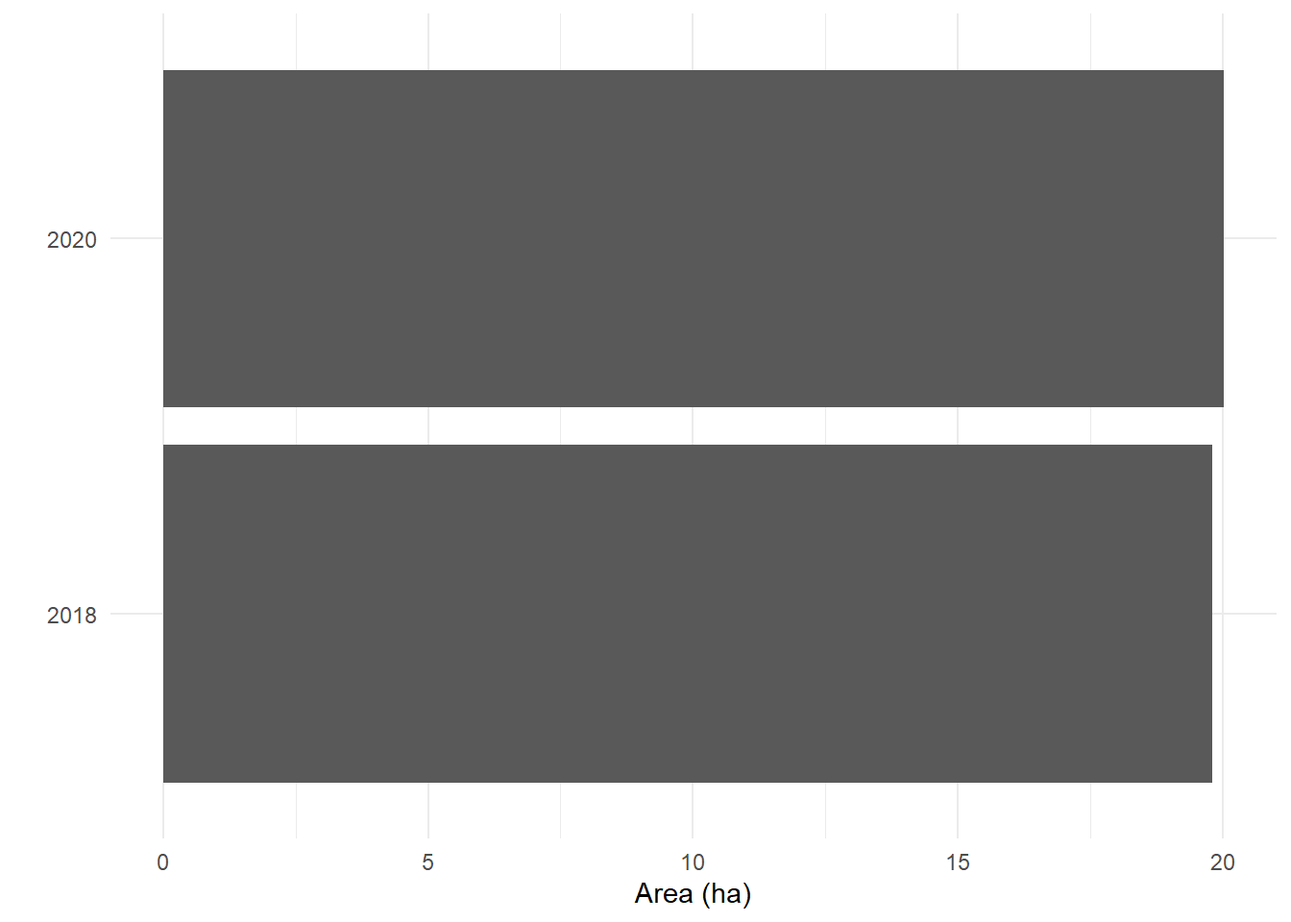
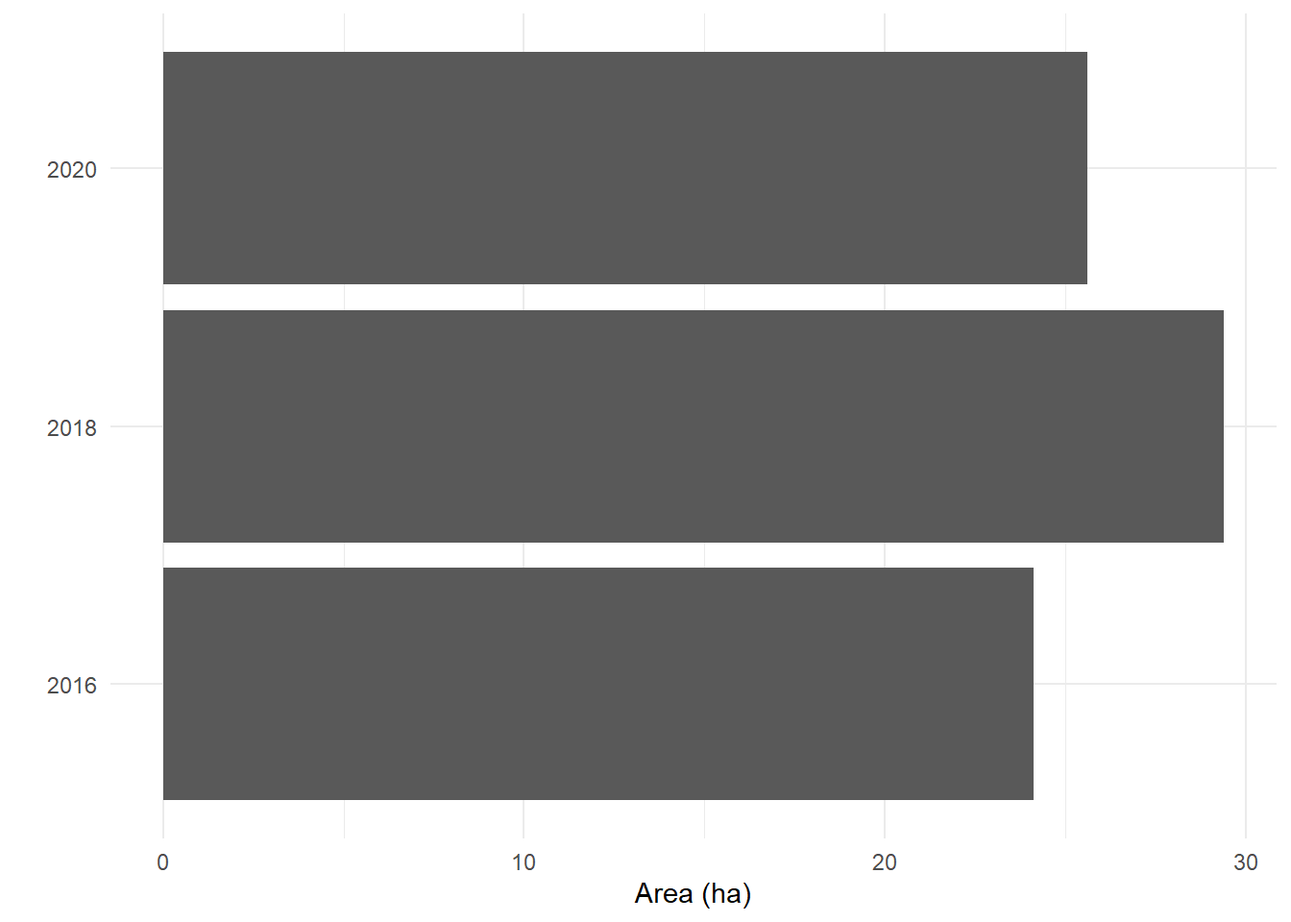
Built site for gh-pages

diff --git a/blog/posts/opening-kmz-files/index.html b/blog/posts/opening-kmz-files/index.html
@@ -7,7 +7,7 @@
 <meta name="viewport" content="width=device-width, initial-scale=1.0, user-scalable=yes">
 
 <meta name="author" content="Sarah Zeller">
-<meta name="dcterms.date" content="2024-04-19">
+<meta name="dcterms.date" content="2024-05-27">
 
 <title>Sarah Zeller - Opening .kmz files</title>
 <style>
@@ -172,7 +172,7 @@ pre > code.sourceCode > span > a:first-child::before { text-decoration: underlin
       <div>
       <div class="quarto-title-meta-heading">Published</div>
       <div class="quarto-title-meta-contents">
-        <p class="date">April 19, 2024</p>
+        <p class="date">May 27, 2024</p>
       </div>
     </div>
     
@@ -196,6 +196,7 @@ pre > code.sourceCode > span > a:first-child::before { text-decoration: underlin
   <li><a href="#manipulating-the-data" id="toc-manipulating-the-data" class="nav-link" data-scroll-target="#manipulating-the-data">Manipulating the data</a>
   <ul class="collapse">
   <li><a href="#extracting-information-from-the-name" id="toc-extracting-information-from-the-name" class="nav-link" data-scroll-target="#extracting-information-from-the-name">Extracting information from the <code>Name</code></a></li>
+  <li><a href="#summarizing-into-one-polygon" id="toc-summarizing-into-one-polygon" class="nav-link" data-scroll-target="#summarizing-into-one-polygon">Summarizing into one polygon</a></li>
   <li><a href="#calculating-area" id="toc-calculating-area" class="nav-link" data-scroll-target="#calculating-area">Calculating area</a></li>
   </ul></li>
   <li><a href="#alternative-using-terra" id="toc-alternative-using-terra" class="nav-link" data-scroll-target="#alternative-using-terra">Alternative using <code>terra</code></a></li>
@@ -222,17 +223,18 @@ pre > code.sourceCode > span > a:first-child::before { text-decoration: underlin
 </section>
 <section id="setup" class="level1">
 <h1>Setup</h1>
-<p>Let’s start by loading the necessary libraries. We’ll need <code>archive</code> to unpack our <code>.kmz</code> file. With <code>sf</code>, we can then read the corresponding file in. <code>dplyr</code> will help us wrangle the data once they’re read in. With <code>ggplot2</code>, we can visualize our data. <code>units</code> helps wrangling with different area units.</p>
+<p>Let’s start by loading the necessary libraries. We’ll need <code>archive</code> to unpack our <code>.kmz</code> file. With <code>sf</code>, we can then read the corresponding file in. <code>dplyr</code> will help us wrangle the data once they’re read in. With <code>ggplot2</code>, we can visualize our data. <code>units</code> helps wrangling with different area units. <code>unglue</code> is a package that helps us extract information from strings.</p>
 <div class="cell">
 <div class="sourceCode cell-code" id="cb1"><pre class="sourceCode r code-with-copy"><code class="sourceCode r"><span id="cb1-1"><a href="#cb1-1" aria-hidden="true" tabindex="-1"></a><span class="fu">library</span>(archive)</span>
 <span id="cb1-2"><a href="#cb1-2" aria-hidden="true" tabindex="-1"></a><span class="fu">library</span>(sf)</span>
 <span id="cb1-3"><a href="#cb1-3" aria-hidden="true" tabindex="-1"></a><span class="fu">library</span>(dplyr)</span>
 <span id="cb1-4"><a href="#cb1-4" aria-hidden="true" tabindex="-1"></a><span class="fu">library</span>(ggplot2)</span>
-<span id="cb1-5"><a href="#cb1-5" aria-hidden="true" tabindex="-1"></a><span class="fu">library</span>(units)</span></code><button title="Copy to Clipboard" class="code-copy-button"><i class="bi"></i></button></pre></div>
+<span id="cb1-5"><a href="#cb1-5" aria-hidden="true" tabindex="-1"></a><span class="fu">library</span>(units)</span>
+<span id="cb1-6"><a href="#cb1-6" aria-hidden="true" tabindex="-1"></a><span class="fu">library</span>(unglue)</span></code><button title="Copy to Clipboard" class="code-copy-button"><i class="bi"></i></button></pre></div>
 </div>
 <p>Now, let’s download our file. For this, we use the URL I’ve mentioned before. Also, we’re creating a temporary file into which we load this file – <code>kmz_path</code>. Watch out, though: it’s a binary file, so we need to add the corresponding argument to the function <code>download.file</code>.</p>
 <div class="cell">
-<div class="sourceCode cell-code" id="cb2"><pre class="sourceCode r code-with-copy"><code class="sourceCode r"><span id="cb2-1"><a href="#cb2-1" aria-hidden="true" tabindex="-1"></a>kmz_url <span class="ot">&lt;-</span> <span class="st">"https://sarahzeller.github.io/assets/Agbogbloshie.kmz"</span></span>
+<div class="sourceCode cell-code" id="cb2"><pre class="sourceCode r code-with-copy"><code class="sourceCode r"><span id="cb2-1"><a href="#cb2-1" aria-hidden="true" tabindex="-1"></a>kmz_url <span class="ot">&lt;-</span> <span class="st">"https://github.com/sarahzeller/sarahzeller.github.io/blob/main/assets/Agbogbloshie.kmz"</span></span>
 <span id="cb2-2"><a href="#cb2-2" aria-hidden="true" tabindex="-1"></a></span>
 <span id="cb2-3"><a href="#cb2-3" aria-hidden="true" tabindex="-1"></a>kmz_path <span class="ot">&lt;-</span> <span class="fu">tempfile</span>(<span class="at">fileext =</span> <span class="st">".kmz"</span>)</span>
 <span id="cb2-4"><a href="#cb2-4" aria-hidden="true" tabindex="-1"></a><span class="fu">download.file</span>(</span>
@@ -273,18 +275,21 @@ pre > code.sourceCode > span > a:first-child::before { text-decoration: underlin
 <span id="cb5-4"><a href="#cb5-4" aria-hidden="true" tabindex="-1"></a></span>
 <span id="cb5-5"><a href="#cb5-5" aria-hidden="true" tabindex="-1"></a>agbogbloshie <span class="sc">|&gt;</span> <span class="fu">head</span>()</span></code><button title="Copy to Clipboard" class="code-copy-button"><i class="bi"></i></button></pre></div>
 <div class="cell-output cell-output-stdout">
-<pre><code>Simple feature collection with 3 features and 2 fields
+<pre><code>Simple feature collection with 6 features and 2 fields
 Geometry type: GEOMETRY
 Dimension:     XYZ
-Bounding box:  xmin: -0.2311228 ymin: 5.54208 xmax: -0.2246721 ymax: 5.554326
+Bounding box:  xmin: -0.2311228 ymin: 5.54208 xmax: -0.2246721 ymax: 5.556922
 z_range:       zmin: 0 zmax: 0
 Geodetic CRS:  WGS 84
-# A tibble: 3 × 3
-  Name         Description                                              geometry
-  &lt;chr&gt;        &lt;chr&gt;                                              &lt;GEOMETRY [°]&gt;
-1 Agbogbloshie ""                                POINT Z (-0.2264589 5.548876 0)
-2 stand_2020   ""          MULTIPOLYGON Z (((-0.2311228 5.554326 0, -0.2291702 …
-3 stand_2018   ""          MULTIPOLYGON Z (((-0.2304394 5.552348 0, -0.2304295 …</code></pre>
+# A tibble: 6 × 3
+  Name                    Description                                   geometry
+  &lt;chr&gt;                   &lt;chr&gt;                                   &lt;GEOMETRY [°]&gt;
+1 Agbogbloshie            ""                     POINT Z (-0.2264589 5.548876 0)
+2 Agbogbloshie_02_2020    ""          MULTIPOLYGON Z (((-0.2311228 5.554326 0, …
+3 Agbogbloshie_10_2018    ""          MULTIPOLYGON Z (((-0.2304394 5.552348 0, …
+4 Agblogbloshie 10_2016   ""          MULTIPOLYGON Z (((-0.2292498 5.550126 0, …
+5 Agbogbloshie_10_2018_02 ""          MULTIPOLYGON Z (((-0.229426 5.553367 0, -…
+6 Agbogbloshie_10_2018_03 ""          MULTIPOLYGON Z (((-0.2264083 5.550984 0, …</code></pre>
 </div>
 </div>
 </section>
@@ -304,24 +309,39 @@ Geodetic CRS:  WGS 84
 <p>Now that we’ve gotten the data into a format we can work with, let’s add some information. The first thing is to put the information contained in the <code>Name</code> column into a readable format. Next thing, we want to compute the area of our polygons.</p>
 <section id="extracting-information-from-the-name" class="level2">
 <h2 class="anchored" data-anchor-id="extracting-information-from-the-name">Extracting information from the <code>Name</code></h2>
-<p>When we check out our <code>agbogbloshie_polygon</code> data frame, we can see that there’s information contained in the <code>Name</code> column, specifically: the year for which the polygon shape is valid. So let’s extract that <code>numeric</code> information from the <code>character</code> column! We can do that using the <code>parse_number</code> function from the <code>readr</code> package.</p>
+<p>When we check out our <code>agbogbloshie_polygon</code> data frame, we can see that there’s information contained in the <code>Name</code> column, specifically: the year for which the polygon shape is valid. So let’s extract that <code>numeric</code> information from the <code>character</code> column! Because the description is quite long and has much information included – and it’s always formatted the same way –, we’ll use the <code>unglue</code> package to extract the information. Also, the landfill is misspelt in some cases, so we need to account for that.</p>
 <div class="cell">
 <div class="sourceCode cell-code" id="cb8"><pre class="sourceCode r code-with-copy"><code class="sourceCode r"><span id="cb8-1"><a href="#cb8-1" aria-hidden="true" tabindex="-1"></a>agbogbloshie_polygon <span class="ot">&lt;-</span> agbogbloshie_polygon <span class="sc">|&gt;</span> </span>
-<span id="cb8-2"><a href="#cb8-2" aria-hidden="true" tabindex="-1"></a>  <span class="fu">mutate</span>(<span class="at">year =</span> readr<span class="sc">::</span><span class="fu">parse_number</span>(Name))</span>
-<span id="cb8-3"><a href="#cb8-3" aria-hidden="true" tabindex="-1"></a></span>
-<span id="cb8-4"><a href="#cb8-4" aria-hidden="true" tabindex="-1"></a>agbogbloshie_polygon</span></code><button title="Copy to Clipboard" class="code-copy-button"><i class="bi"></i></button></pre></div>
+<span id="cb8-2"><a href="#cb8-2" aria-hidden="true" tabindex="-1"></a>  <span class="fu">unglue_unnest</span>(Name, </span>
+<span id="cb8-3"><a href="#cb8-3" aria-hidden="true" tabindex="-1"></a>                <span class="at">patterns =</span> <span class="fu">c</span>(<span class="st">"{landfill_name}_{month}_{year}_{polygon_no}"</span>,</span>
+<span id="cb8-4"><a href="#cb8-4" aria-hidden="true" tabindex="-1"></a>                             <span class="st">"{landfill_name}_{month}_{year}"</span>,</span>
+<span id="cb8-5"><a href="#cb8-5" aria-hidden="true" tabindex="-1"></a>                             <span class="st">"{landfill_name} {month}_{year}"</span>),</span>
+<span id="cb8-6"><a href="#cb8-6" aria-hidden="true" tabindex="-1"></a>                <span class="at">remove =</span> <span class="cn">FALSE</span>) <span class="sc">|&gt;</span> </span>
+<span id="cb8-7"><a href="#cb8-7" aria-hidden="true" tabindex="-1"></a>  <span class="fu">mutate</span>(<span class="at">landfill_name =</span> <span class="fu">case_match</span>(landfill_name,</span>
+<span id="cb8-8"><a href="#cb8-8" aria-hidden="true" tabindex="-1"></a>                                    <span class="st">"Agblogbloshie"</span> <span class="sc">~</span> <span class="st">"Agbogbloshie"</span>,</span>
+<span id="cb8-9"><a href="#cb8-9" aria-hidden="true" tabindex="-1"></a>                                    <span class="st">"Agbogbgloshie"</span> <span class="sc">~</span> <span class="st">"Agbogbloshie"</span>,</span>
+<span id="cb8-10"><a href="#cb8-10" aria-hidden="true" tabindex="-1"></a>                                    <span class="at">.default =</span> <span class="st">"Agbogbloshie"</span>))</span>
+<span id="cb8-11"><a href="#cb8-11" aria-hidden="true" tabindex="-1"></a></span>
+<span id="cb8-12"><a href="#cb8-12" aria-hidden="true" tabindex="-1"></a>agbogbloshie_polygon</span></code><button title="Copy to Clipboard" class="code-copy-button"><i class="bi"></i></button></pre></div>
 <div class="cell-output cell-output-stdout">
-<pre><code>Simple feature collection with 2 features and 3 fields
+<pre><code>Simple feature collection with 8 features and 6 fields
 Geometry type: MULTIPOLYGON
 Dimension:     XYZ
-Bounding box:  xmin: -0.2311228 ymin: 5.54208 xmax: -0.2246721 ymax: 5.554326
+Bounding box:  xmin: -0.2311228 ymin: 5.54208 xmax: -0.2246721 ymax: 5.556922
 z_range:       zmin: 0 zmax: 0
 Geodetic CRS:  WGS 84
-# A tibble: 2 × 4
-  Name       Description                                          geometry  year
-* &lt;chr&gt;      &lt;chr&gt;                                      &lt;MULTIPOLYGON [°]&gt; &lt;dbl&gt;
-1 stand_2020 ""          Z (((-0.2311228 5.554326 0, -0.2291702 5.549969 …  2020
-2 stand_2018 ""          Z (((-0.2304394 5.552348 0, -0.2304295 5.552299 …  2018</code></pre>
+# A tibble: 8 × 7
+  Name                     Description landfill_name month year  polygon_no
+* &lt;chr&gt;                    &lt;chr&gt;       &lt;chr&gt;         &lt;chr&gt; &lt;chr&gt; &lt;chr&gt;     
+1 Agbogbloshie_02_2020     ""          Agbogbloshie  02    2020  &lt;NA&gt;      
+2 Agbogbloshie_10_2018     ""          Agbogbloshie  10    2018  &lt;NA&gt;      
+3 Agblogbloshie 10_2016    ""          Agbogbloshie  10    2016  &lt;NA&gt;      
+4 Agbogbloshie_10_2018_02  ""          Agbogbloshie  10    2018  02        
+5 Agbogbloshie_10_2018_03  ""          Agbogbloshie  10    2018  03        
+6 Agbogbgloshie_02_2020_02 ""          Agbogbloshie  02    2020  02        
+7 Agbogbloshie_02_2020_03  ""          Agbogbloshie  02    2020  03        
+8 Agbogbloshie_10_2016_02  ""          Agbogbloshie  10    2016  02        
+# ℹ 1 more variable: geometry &lt;MULTIPOLYGON [°]&gt;</code></pre>
 </div>
 </div>
 <p>Let’s use this information to plot the landfill in the two different years! Seems like the landfill grew quite a bit in between.</p>
@@ -345,13 +365,28 @@ Figure&nbsp;1: Agbogbloshie landfill over time
 </div>
 </div>
 </div>
+<p>This looks good! However, we can see that the landfills consist of multiple polygons. Let’s get them together.</p>
+</section>
+<section id="summarizing-into-one-polygon" class="level2">
+<h2 class="anchored" data-anchor-id="summarizing-into-one-polygon">Summarizing into one polygon</h2>
+<p>In every year, we have more than one polygon. We want to collapse these into a single multipolygon. For that, we need to summarize them by <code>year</code> and <code>landfill</code>.</p>
+<div class="cell">
+<div class="sourceCode cell-code" id="cb11"><pre class="sourceCode r code-with-copy"><code class="sourceCode r"><span id="cb11-1"><a href="#cb11-1" aria-hidden="true" tabindex="-1"></a>agbogbloshie_polygon <span class="ot">&lt;-</span> agbogbloshie_polygon <span class="sc">|&gt;</span> </span>
+<span id="cb11-2"><a href="#cb11-2" aria-hidden="true" tabindex="-1"></a>  <span class="fu">st_zm</span>() <span class="sc">|&gt;</span> </span>
+<span id="cb11-3"><a href="#cb11-3" aria-hidden="true" tabindex="-1"></a>  <span class="fu">st_transform</span>(<span class="at">crs =</span> <span class="st">"ESRI:54009"</span>) <span class="sc">|&gt;</span> </span>
+<span id="cb11-4"><a href="#cb11-4" aria-hidden="true" tabindex="-1"></a>  <span class="fu">st_make_valid</span>() <span class="sc">|&gt;</span> </span>
+<span id="cb11-5"><a href="#cb11-5" aria-hidden="true" tabindex="-1"></a>  <span class="co"># summarize geometry into multipolygons</span></span>
+<span id="cb11-6"><a href="#cb11-6" aria-hidden="true" tabindex="-1"></a>  <span class="fu">group_by</span>(landfill_name, year, month) <span class="sc">|&gt;</span> </span>
+<span id="cb11-7"><a href="#cb11-7" aria-hidden="true" tabindex="-1"></a>  <span class="fu">summarize</span>() <span class="sc">|&gt;</span> </span>
+<span id="cb11-8"><a href="#cb11-8" aria-hidden="true" tabindex="-1"></a>  <span class="fu">ungroup</span>()</span></code><button title="Copy to Clipboard" class="code-copy-button"><i class="bi"></i></button></pre></div>
+</div>
 </section>
 <section id="calculating-area" class="level2">
 <h2 class="anchored" data-anchor-id="calculating-area">Calculating area</h2>
 <p>As a next step, let’s calculate the area of these polygons. After all, it’s interesting to see if this landfill shrinks or grows!</p>
 <p>For now, our data are <em>unprojected</em>, though. We can check this by getting the coordinate reference system (CRS) of our data. The output is very long and includes a lot of information, but we only need to focus on the first line, the <em>User input</em>. The next lines show the corresponding <em>well-known text (wkt)</em>, which details exactly how the CRS works. We can see here that the CRS is still <em>WGS 84</em>, which means – unprojected.</p>
 <div class="cell">
-<div class="sourceCode cell-code" id="cb11"><pre class="sourceCode r code-with-copy"><code class="sourceCode r"><span id="cb11-1"><a href="#cb11-1" aria-hidden="true" tabindex="-1"></a><span class="fu">st_crs</span>(agbogbloshie)</span></code><button title="Copy to Clipboard" class="code-copy-button"><i class="bi"></i></button></pre></div>
+<div class="sourceCode cell-code" id="cb12"><pre class="sourceCode r code-with-copy"><code class="sourceCode r"><span id="cb12-1"><a href="#cb12-1" aria-hidden="true" tabindex="-1"></a><span class="fu">st_crs</span>(agbogbloshie)</span></code><button title="Copy to Clipboard" class="code-copy-button"><i class="bi"></i></button></pre></div>
 <div class="cell-output cell-output-stdout">
 <pre><code>Coordinate Reference System:
   User input: WGS 84 
@@ -374,38 +409,38 @@ GEOGCRS["WGS 84",
 </div>
 <p>However, we know that the world is shaped like a potato, and that these unprojected data are biased. To correct for this, we first need to project the data into a CRS that’s accurate for that world region when it comes to area – we also call this area-preserving projection. The official CRS for Ghana, where this landfill is located, has the EPSG code <code>2136</code>. Once we’ve projected the polygons, we can easily calculate the area with the <code>sf</code> package.</p>
 <div class="cell">
-<div class="sourceCode cell-code" id="cb13"><pre class="sourceCode r code-with-copy"><code class="sourceCode r"><span id="cb13-1"><a href="#cb13-1" aria-hidden="true" tabindex="-1"></a>agbogbloshie_polygon <span class="ot">&lt;-</span> agbogbloshie_polygon <span class="sc">|&gt;</span> </span>
-<span id="cb13-2"><a href="#cb13-2" aria-hidden="true" tabindex="-1"></a>  <span class="fu">st_transform</span>(<span class="at">crs =</span> <span class="st">"epsg:2136"</span>) <span class="sc">|&gt;</span> </span>
-<span id="cb13-3"><a href="#cb13-3" aria-hidden="true" tabindex="-1"></a>  <span class="fu">mutate</span>(<span class="at">area =</span> <span class="fu">st_area</span>(geometry)) </span>
-<span id="cb13-4"><a href="#cb13-4" aria-hidden="true" tabindex="-1"></a></span>
-<span id="cb13-5"><a href="#cb13-5" aria-hidden="true" tabindex="-1"></a>agbogbloshie_polygon</span></code><button title="Copy to Clipboard" class="code-copy-button"><i class="bi"></i></button></pre></div>
+<div class="sourceCode cell-code" id="cb14"><pre class="sourceCode r code-with-copy"><code class="sourceCode r"><span id="cb14-1"><a href="#cb14-1" aria-hidden="true" tabindex="-1"></a>agbogbloshie_polygon <span class="ot">&lt;-</span> agbogbloshie_polygon <span class="sc">|&gt;</span> </span>
+<span id="cb14-2"><a href="#cb14-2" aria-hidden="true" tabindex="-1"></a>  <span class="fu">st_transform</span>(<span class="at">crs =</span> <span class="st">"epsg:2136"</span>) <span class="sc">|&gt;</span> </span>
+<span id="cb14-3"><a href="#cb14-3" aria-hidden="true" tabindex="-1"></a>  <span class="fu">mutate</span>(<span class="at">area =</span> <span class="fu">st_area</span>(geometry)) </span>
+<span id="cb14-4"><a href="#cb14-4" aria-hidden="true" tabindex="-1"></a></span>
+<span id="cb14-5"><a href="#cb14-5" aria-hidden="true" tabindex="-1"></a>agbogbloshie_polygon</span></code><button title="Copy to Clipboard" class="code-copy-button"><i class="bi"></i></button></pre></div>
 <div class="cell-output cell-output-stdout">
-<pre><code>Simple feature collection with 2 features and 4 fields
+<pre><code>Simple feature collection with 3 features and 4 fields
 Geometry type: MULTIPOLYGON
-Dimension:     XYZ
-Bounding box:  xmin: 1179342 ymin: 316685.8 xmax: 1181692 ymax: 321125.3
-z_range:       zmin: 0 zmax: 0
+Dimension:     XY
+Bounding box:  xmin: 1179342 ymin: 316685.8 xmax: 1181692 ymax: 322068
 Projected CRS: Accra / Ghana National Grid
-# A tibble: 2 × 5
-  Name       Description                                   geometry  year   area
-* &lt;chr&gt;      &lt;chr&gt;                                   &lt;MULTIPOLYGON&gt; &lt;dbl&gt;  [m^2]
-1 stand_2020 ""          Z (((1179342 321125.3 0, 1180054 319545.7…  2020 2.00e5
-2 stand_2018 ""          Z (((1179591 320408.3 0, 1179595 320390.5…  2018 1.98e5</code></pre>
+# A tibble: 3 × 5
+  landfill_name year  month                                      geometry   area
+* &lt;chr&gt;         &lt;chr&gt; &lt;chr&gt;                                &lt;MULTIPOLYGON&gt;  [m^2]
+1 Agbogbloshie  2016  10    (((1180085 320017.8, 1180468 319802.8, 11805… 2.41e5
+2 Agbogbloshie  2018  10    (((1180357 319898.9, 1180372 319891.8, 11803… 2.94e5
+3 Agbogbloshie  2020  02    (((1179921 320055.5, 1179936 320041.3, 11799… 2.56e5</code></pre>
 </div>
 </div>
 <p>You’ll notice that the <code>area</code> column has a specific format: it’s a <code>unit</code>. This package makes it easy to convert values from one unit into another. Let’s see how we can convert the area into hectares. Afterwards, let’s drop the <code>unit</code> because we have the data in the final shape we want them.</p>
 <div class="cell">
-<div class="sourceCode cell-code" id="cb15"><pre class="sourceCode r code-with-copy"><code class="sourceCode r"><span id="cb15-1"><a href="#cb15-1" aria-hidden="true" tabindex="-1"></a>agbogbloshie_polygon <span class="ot">&lt;-</span> agbogbloshie_polygon <span class="sc">|&gt;</span> </span>
-<span id="cb15-2"><a href="#cb15-2" aria-hidden="true" tabindex="-1"></a>  <span class="fu">mutate</span>(<span class="at">area_ha =</span> <span class="fu">set_units</span>(area, <span class="st">"ha"</span>) <span class="sc">|&gt;</span> <span class="fu">drop_units</span>())</span></code><button title="Copy to Clipboard" class="code-copy-button"><i class="bi"></i></button></pre></div>
+<div class="sourceCode cell-code" id="cb16"><pre class="sourceCode r code-with-copy"><code class="sourceCode r"><span id="cb16-1"><a href="#cb16-1" aria-hidden="true" tabindex="-1"></a>agbogbloshie_polygon <span class="ot">&lt;-</span> agbogbloshie_polygon <span class="sc">|&gt;</span> </span>
+<span id="cb16-2"><a href="#cb16-2" aria-hidden="true" tabindex="-1"></a>  <span class="fu">mutate</span>(<span class="at">area_ha =</span> <span class="fu">set_units</span>(area, <span class="st">"ha"</span>) <span class="sc">|&gt;</span> <span class="fu">drop_units</span>())</span></code><button title="Copy to Clipboard" class="code-copy-button"><i class="bi"></i></button></pre></div>
 </div>
 <p>And there we have it, a data frame with the attributes that we need! Let’s check out the area in comparison. We see that there’s not that much difference!</p>
 <div class="cell">
-<div class="sourceCode cell-code" id="cb16"><pre class="sourceCode r code-with-copy"><code class="sourceCode r"><span id="cb16-1"><a href="#cb16-1" aria-hidden="true" tabindex="-1"></a><span class="fu">ggplot</span>(<span class="at">data =</span> agbogbloshie_polygon) <span class="sc">+</span></span>
-<span id="cb16-2"><a href="#cb16-2" aria-hidden="true" tabindex="-1"></a>  <span class="fu">geom_col</span>(<span class="fu">aes</span>(<span class="at">x =</span> year <span class="sc">|&gt;</span> <span class="fu">as.character</span>(), <span class="at">y =</span> area_ha)) <span class="sc">+</span></span>
-<span id="cb16-3"><a href="#cb16-3" aria-hidden="true" tabindex="-1"></a>  <span class="fu">coord_flip</span>() <span class="sc">+</span></span>
-<span id="cb16-4"><a href="#cb16-4" aria-hidden="true" tabindex="-1"></a>  <span class="fu">labs</span>(<span class="at">y =</span> <span class="st">"Area (ha)"</span>,</span>
-<span id="cb16-5"><a href="#cb16-5" aria-hidden="true" tabindex="-1"></a>       <span class="at">x =</span> <span class="st">""</span>) <span class="sc">+</span></span>
-<span id="cb16-6"><a href="#cb16-6" aria-hidden="true" tabindex="-1"></a>  <span class="fu">theme_minimal</span>()</span></code><button title="Copy to Clipboard" class="code-copy-button"><i class="bi"></i></button></pre></div>
+<div class="sourceCode cell-code" id="cb17"><pre class="sourceCode r code-with-copy"><code class="sourceCode r"><span id="cb17-1"><a href="#cb17-1" aria-hidden="true" tabindex="-1"></a><span class="fu">ggplot</span>(<span class="at">data =</span> agbogbloshie_polygon) <span class="sc">+</span></span>
+<span id="cb17-2"><a href="#cb17-2" aria-hidden="true" tabindex="-1"></a>  <span class="fu">geom_col</span>(<span class="fu">aes</span>(<span class="at">x =</span> year <span class="sc">|&gt;</span> <span class="fu">as.character</span>(), <span class="at">y =</span> area_ha)) <span class="sc">+</span></span>
+<span id="cb17-3"><a href="#cb17-3" aria-hidden="true" tabindex="-1"></a>  <span class="fu">coord_flip</span>() <span class="sc">+</span></span>
+<span id="cb17-4"><a href="#cb17-4" aria-hidden="true" tabindex="-1"></a>  <span class="fu">labs</span>(<span class="at">y =</span> <span class="st">"Area (ha)"</span>,</span>
+<span id="cb17-5"><a href="#cb17-5" aria-hidden="true" tabindex="-1"></a>       <span class="at">x =</span> <span class="st">""</span>) <span class="sc">+</span></span>
+<span id="cb17-6"><a href="#cb17-6" aria-hidden="true" tabindex="-1"></a>  <span class="fu">theme_minimal</span>()</span></code><button title="Copy to Clipboard" class="code-copy-button"><i class="bi"></i></button></pre></div>
 <div class="cell-output-display">
 <div id="fig-bar-plot" class="quarto-figure quarto-figure-center quarto-float anchored">
 <figure class="quarto-float quarto-float-fig figure">
@@ -438,20 +473,37 @@ Note
 </div>
 </div>
 <div class="cell">
-<div class="sourceCode cell-code" id="cb17"><pre class="sourceCode r code-with-copy"><code class="sourceCode r"><span id="cb17-1"><a href="#cb17-1" aria-hidden="true" tabindex="-1"></a><span class="fu">library</span>(terra)</span>
-<span id="cb17-2"><a href="#cb17-2" aria-hidden="true" tabindex="-1"></a><span class="fu">library</span>(tidyterra)</span>
-<span id="cb17-3"><a href="#cb17-3" aria-hidden="true" tabindex="-1"></a><span class="fu">library</span>(tidyverse)</span>
-<span id="cb17-4"><a href="#cb17-4" aria-hidden="true" tabindex="-1"></a></span>
-<span id="cb17-5"><a href="#cb17-5" aria-hidden="true" tabindex="-1"></a>agbogbloshie_terra <span class="ot">&lt;-</span> kml_path <span class="sc">|&gt;</span>  </span>
-<span id="cb17-6"><a href="#cb17-6" aria-hidden="true" tabindex="-1"></a>  <span class="co"># select first file there</span></span>
-<span id="cb17-7"><a href="#cb17-7" aria-hidden="true" tabindex="-1"></a>  <span class="fu">list.files</span>(<span class="at">full.names =</span> <span class="cn">TRUE</span>) <span class="sc">|&gt;</span> </span>
-<span id="cb17-8"><a href="#cb17-8" aria-hidden="true" tabindex="-1"></a>  <span class="fu">pluck</span>(<span class="dv">1</span>) <span class="sc">|&gt;</span> </span>
-<span id="cb17-9"><a href="#cb17-9" aria-hidden="true" tabindex="-1"></a>  <span class="co"># read in with terra</span></span>
-<span id="cb17-10"><a href="#cb17-10" aria-hidden="true" tabindex="-1"></a>  <span class="fu">vect</span>() <span class="sc">|&gt;</span> </span>
-<span id="cb17-11"><a href="#cb17-11" aria-hidden="true" tabindex="-1"></a>  <span class="fu">project</span>(<span class="st">"epsg:2136"</span>) <span class="sc">%&gt;%</span></span>
-<span id="cb17-12"><a href="#cb17-12" aria-hidden="true" tabindex="-1"></a>  <span class="co"># expanse is an odd function where we need to input the above again, that's</span></span>
-<span id="cb17-13"><a href="#cb17-13" aria-hidden="true" tabindex="-1"></a>  <span class="co"># why I added the tidyverse pipe and the dot.</span></span>
-<span id="cb17-14"><a href="#cb17-14" aria-hidden="true" tabindex="-1"></a>  <span class="fu">mutate</span>(<span class="at">area =</span> <span class="fu">expanse</span>(.))</span></code><button title="Copy to Clipboard" class="code-copy-button"><i class="bi"></i></button></pre></div>
+<div class="sourceCode cell-code" id="cb18"><pre class="sourceCode r code-with-copy"><code class="sourceCode r"><span id="cb18-1"><a href="#cb18-1" aria-hidden="true" tabindex="-1"></a><span class="fu">library</span>(terra)</span>
+<span id="cb18-2"><a href="#cb18-2" aria-hidden="true" tabindex="-1"></a><span class="fu">library</span>(tidyterra)</span>
+<span id="cb18-3"><a href="#cb18-3" aria-hidden="true" tabindex="-1"></a><span class="fu">library</span>(tidyverse)</span>
+<span id="cb18-4"><a href="#cb18-4" aria-hidden="true" tabindex="-1"></a></span>
+<span id="cb18-5"><a href="#cb18-5" aria-hidden="true" tabindex="-1"></a>agbogbloshie_terra <span class="ot">&lt;-</span> kml_path <span class="sc">|&gt;</span>  </span>
+<span id="cb18-6"><a href="#cb18-6" aria-hidden="true" tabindex="-1"></a>  <span class="co"># select first file there</span></span>
+<span id="cb18-7"><a href="#cb18-7" aria-hidden="true" tabindex="-1"></a>  <span class="fu">list.files</span>(<span class="at">full.names =</span> <span class="cn">TRUE</span>) <span class="sc">|&gt;</span> </span>
+<span id="cb18-8"><a href="#cb18-8" aria-hidden="true" tabindex="-1"></a>  <span class="fu">pluck</span>(<span class="dv">1</span>) <span class="sc">|&gt;</span> </span>
+<span id="cb18-9"><a href="#cb18-9" aria-hidden="true" tabindex="-1"></a>  <span class="co"># read in with terra</span></span>
+<span id="cb18-10"><a href="#cb18-10" aria-hidden="true" tabindex="-1"></a>  <span class="fu">vect</span>() <span class="sc">|&gt;</span> </span>
+<span id="cb18-11"><a href="#cb18-11" aria-hidden="true" tabindex="-1"></a>  <span class="fu">project</span>(<span class="st">"epsg:2136"</span>) <span class="sc">%&gt;%</span></span>
+<span id="cb18-12"><a href="#cb18-12" aria-hidden="true" tabindex="-1"></a>  <span class="co"># expanse is an odd function where we need to input the above again, that's</span></span>
+<span id="cb18-13"><a href="#cb18-13" aria-hidden="true" tabindex="-1"></a>  <span class="co"># why I added the tidyverse pipe and the dot.</span></span>
+<span id="cb18-14"><a href="#cb18-14" aria-hidden="true" tabindex="-1"></a>  <span class="fu">mutate</span>(<span class="at">area =</span> <span class="fu">expanse</span>(., <span class="at">unit =</span> <span class="st">"ha"</span>))</span></code><button title="Copy to Clipboard" class="code-copy-button"><i class="bi"></i></button></pre></div>
+</div>
+<p>Lastly, let’s account for the misspelt names in the <code>landfill_name</code> column. Also, let’s sum the area per year.</p>
+<div class="cell">
+<div class="sourceCode cell-code" id="cb19"><pre class="sourceCode r code-with-copy"><code class="sourceCode r"><span id="cb19-1"><a href="#cb19-1" aria-hidden="true" tabindex="-1"></a>agbogbloshie_terra_clean <span class="ot">&lt;-</span> agbogbloshie_terra <span class="sc">|&gt;</span> </span>
+<span id="cb19-2"><a href="#cb19-2" aria-hidden="true" tabindex="-1"></a>  <span class="fu">as.data.frame</span>() <span class="sc">|&gt;</span> </span>
+<span id="cb19-3"><a href="#cb19-3" aria-hidden="true" tabindex="-1"></a>  <span class="fu">unglue_unnest</span>(Name, </span>
+<span id="cb19-4"><a href="#cb19-4" aria-hidden="true" tabindex="-1"></a>                <span class="at">patterns =</span> <span class="fu">c</span>(<span class="st">"{landfill_name}_{month}_{year}_{polygon_no}"</span>,</span>
+<span id="cb19-5"><a href="#cb19-5" aria-hidden="true" tabindex="-1"></a>                             <span class="st">"{landfill_name}_{month}_{year}"</span>,</span>
+<span id="cb19-6"><a href="#cb19-6" aria-hidden="true" tabindex="-1"></a>                             <span class="st">"{landfill_name} {month}_{year}"</span>),</span>
+<span id="cb19-7"><a href="#cb19-7" aria-hidden="true" tabindex="-1"></a>                <span class="at">remove =</span> <span class="cn">FALSE</span>) <span class="sc">|&gt;</span> </span>
+<span id="cb19-8"><a href="#cb19-8" aria-hidden="true" tabindex="-1"></a>  <span class="fu">mutate</span>(<span class="at">landfill_name =</span> <span class="fu">case_match</span>(landfill_name,</span>
+<span id="cb19-9"><a href="#cb19-9" aria-hidden="true" tabindex="-1"></a>                                    <span class="st">"Agblogbloshie"</span> <span class="sc">~</span> <span class="st">"Agbogbloshie"</span>,</span>
+<span id="cb19-10"><a href="#cb19-10" aria-hidden="true" tabindex="-1"></a>                                    <span class="st">"Agbogbgloshie"</span> <span class="sc">~</span> <span class="st">"Agbogbloshie"</span>,</span>
+<span id="cb19-11"><a href="#cb19-11" aria-hidden="true" tabindex="-1"></a>                                    <span class="at">.default =</span> <span class="st">"Agbogbloshie"</span>)) <span class="sc">|&gt;</span> </span>
+<span id="cb19-12"><a href="#cb19-12" aria-hidden="true" tabindex="-1"></a>  <span class="fu">group_by</span>(landfill_name, year) <span class="sc">|&gt;</span> </span>
+<span id="cb19-13"><a href="#cb19-13" aria-hidden="true" tabindex="-1"></a>  <span class="fu">summarize</span>(<span class="at">area_ha =</span> <span class="fu">sum</span>(area)) <span class="sc">|&gt;</span> </span>
+<span id="cb19-14"><a href="#cb19-14" aria-hidden="true" tabindex="-1"></a>  <span class="fu">ungroup</span>()</span></code><button title="Copy to Clipboard" class="code-copy-button"><i class="bi"></i></button></pre></div>
 </div>
 
 
@@ -460,13 +512,13 @@ Note
 <div id="quarto-appendix" class="default"><section class="quarto-appendix-contents" id="quarto-citation"><h2 class="anchored quarto-appendix-heading">Citation</h2><div><div class="quarto-appendix-secondary-label">BibTeX citation:</div><pre class="sourceCode code-with-copy quarto-appendix-bibtex"><code class="sourceCode bibtex">@online{zeller2024,
   author = {Zeller, Sarah},
   title = {Opening `.kmz` Files},
-  date = {2024-04-19},
+  date = {2024-05-27},
   url = {https://sarahzeller.github.io/blog/posts/opening-kmz-files/},
   langid = {en}
 }
 </code><button title="Copy to Clipboard" class="code-copy-button"><i class="bi"></i></button></pre><div class="quarto-appendix-secondary-label">For attribution, please cite this work as:</div><div id="ref-zeller2024" class="csl-entry quarto-appendix-citeas" role="listitem">
-Zeller, Sarah. 2024. <span>“Opening `.kmz` Files.”</span> April 19,
-2024. <a href="https://sarahzeller.github.io/blog/posts/opening-kmz-files/">https://sarahzeller.github.io/blog/posts/opening-kmz-files/</a>.
+Zeller, Sarah. 2024. <span>“Opening `.kmz` Files.”</span> May 27, 2024.
+<a href="https://sarahzeller.github.io/blog/posts/opening-kmz-files/">https://sarahzeller.github.io/blog/posts/opening-kmz-files/</a>.
 </div></div></section></div></main> <!-- /main -->
 <script id="quarto-html-after-body" type="application/javascript">
 window.document.addEventListener("DOMContentLoaded", function (event) {

diff --git a/blog/index.html b/blog/index.html
@@ -210,7 +210,43 @@ window.Quarto = {
 
 <div class="quarto-listing quarto-listing-container-default" id="listing-posts">
 <div class="list quarto-listing-default">
-<div class="quarto-post image-right" data-index="0" data-categories="code,data" data-listing-date-sort="1714867200000" data-listing-file-modified-sort="1716816306283" data-listing-date-modified-sort="NaN" data-listing-reading-time-sort="6" data-listing-word-count-sort="1182">
+<div class="quarto-post image-right" data-index="0" data-categories="code,spatial formats" data-listing-date-sort="1716768000000" data-listing-file-modified-sort="1716818183512" data-listing-date-modified-sort="NaN" data-listing-reading-time-sort="9" data-listing-word-count-sort="1717">
+<div class="thumbnail">
+<p><a href="../blog/posts/opening-kmz-files/index.html" class="no-external"></a></p><a href="../blog/posts/opening-kmz-files/index.html" class="no-external">
+<p><img src="../blog/posts/opening-kmz-files/landfills.PNG" class="thumbnail-image"></p>
+</a><p><a href="../blog/posts/opening-kmz-files/index.html" class="no-external"></a></p>
+</div>
+<div class="body">
+<h3 class="no-anchor listing-title">
+<a href="../blog/posts/opening-kmz-files/index.html" class="no-external">Opening <code>.kmz</code> files</a>
+</h3>
+<div class="listing-subtitle">
+<a href="../blog/posts/opening-kmz-files/index.html" class="no-external"></a>
+</div>
+<div class="listing-categories">
+<div class="listing-category" onclick="window.quartoListingCategory('code'); return false;">
+code
+</div>
+<div class="listing-category" onclick="window.quartoListingCategory('spatial formats'); return false;">
+spatial formats
+</div>
+</div>
+<div class="listing-description">
+<a href="../blog/posts/opening-kmz-files/index.html" class="no-external">When working with spatial data, one thing I’ve noticed is: there’s a lot of obscure data formats. And with every one of them, it takes me a while to figure out how to handle…<code></code></a>
+</div>
+</div>
+<div class="metadata">
+<a href="../blog/posts/opening-kmz-files/index.html" class="no-external">
+<div class="listing-date">
+May 27, 2024
+</div>
+<div class="listing-author">
+Sarah Zeller
+</div>
+</a>
+</div>
+</div>
+<div class="quarto-post image-right" data-index="1" data-categories="code,data" data-listing-date-sort="1714867200000" data-listing-file-modified-sort="1716818183512" data-listing-date-modified-sort="NaN" data-listing-reading-time-sort="6" data-listing-word-count-sort="1182">
 <div class="thumbnail">
 <p><a href="../blog/posts/reading-csv-with-2row-colnames/index.html" class="no-external"></a></p><a href="../blog/posts/reading-csv-with-2row-colnames/index.html" class="no-external">
 <p><img src="../blog/posts/reading-csv-with-2row-colnames/two_row_colnames.PNG" class="thumbnail-image"></p>
@@ -246,43 +282,7 @@ Sarah Zeller
 </a>
 </div>
 </div>
-<div class="quarto-post image-right" data-index="1" data-categories="code,spatial formats" data-listing-date-sort="1713484800000" data-listing-file-modified-sort="1716816306283" data-listing-date-modified-sort="NaN" data-listing-reading-time-sort="6" data-listing-word-count-sort="1122">
-<div class="thumbnail">
-<p><a href="../blog/posts/opening-kmz-files/index.html" class="no-external"></a></p><a href="../blog/posts/opening-kmz-files/index.html" class="no-external">
-<p><img src="../blog/posts/opening-kmz-files/landfills.PNG" class="thumbnail-image"></p>
-</a><p><a href="../blog/posts/opening-kmz-files/index.html" class="no-external"></a></p>
-</div>
-<div class="body">
-<h3 class="no-anchor listing-title">
-<a href="../blog/posts/opening-kmz-files/index.html" class="no-external">Opening <code>.kmz</code> files</a>
-</h3>
-<div class="listing-subtitle">
-<a href="../blog/posts/opening-kmz-files/index.html" class="no-external"></a>
-</div>
-<div class="listing-categories">
-<div class="listing-category" onclick="window.quartoListingCategory('code'); return false;">
-code
-</div>
-<div class="listing-category" onclick="window.quartoListingCategory('spatial formats'); return false;">
-spatial formats
-</div>
-</div>
-<div class="listing-description">
-<a href="../blog/posts/opening-kmz-files/index.html" class="no-external">When working with spatial data, one thing I’ve noticed is: there’s a lot of obscure data formats. And with every one of them, it takes me a while to figure out how to handle…<code></code></a>
-</div>
-</div>
-<div class="metadata">
-<a href="../blog/posts/opening-kmz-files/index.html" class="no-external">
-<div class="listing-date">
-Apr 19, 2024
-</div>
-<div class="listing-author">
-Sarah Zeller
-</div>
-</a>
-</div>
-</div>
-<div class="quarto-post image-right" data-index="2" data-categories="code,spatial formats" data-listing-date-sort="1708732800000" data-listing-file-modified-sort="1716816306283" data-listing-date-modified-sort="NaN" data-listing-reading-time-sort="7" data-listing-word-count-sort="1272">
+<div class="quarto-post image-right" data-index="2" data-categories="code,spatial formats" data-listing-date-sort="1708732800000" data-listing-file-modified-sort="1716818183512" data-listing-date-modified-sort="NaN" data-listing-reading-time-sort="7" data-listing-word-count-sort="1272">
 <div class="thumbnail">
 <p><a href="../blog/posts/opening-nc-files/index.html" class="no-external"></a></p><a href="../blog/posts/opening-nc-files/index.html" class="no-external">
 <p><img src="../blog/posts/opening-nc-files/raster.png" class="thumbnail-image"></p>
@@ -318,7 +318,7 @@ Sarah Zeller
 </a>
 </div>
 </div>
-<div class="quarto-post image-right" data-index="3" data-categories="code,visualization" data-listing-date-sort="1704326400000" data-listing-file-modified-sort="1716816306279" data-listing-date-modified-sort="NaN" data-listing-reading-time-sort="6" data-listing-word-count-sort="1013">
+<div class="quarto-post image-right" data-index="3" data-categories="code,visualization" data-listing-date-sort="1704326400000" data-listing-file-modified-sort="1716818183512" data-listing-date-modified-sort="NaN" data-listing-reading-time-sort="6" data-listing-word-count-sort="1013">
 <div class="thumbnail">
 <p><a href="../blog/posts/creating-a-basic-map/index.html" class="no-external"></a></p><a href="../blog/posts/creating-a-basic-map/index.html" class="no-external">
 <p><img src="../blog/posts/creating-a-basic-map/map.png" class="thumbnail-image"></p>
@@ -354,7 +354,7 @@ Sarah Zeller
 </a>
 </div>
 </div>
-<div class="quarto-post image-right" data-index="4" data-categories="code,summary" data-listing-date-sort="1701129600000" data-listing-file-modified-sort="1716816306283" data-listing-date-modified-sort="NaN" data-listing-reading-time-sort="5" data-listing-word-count-sort="803">
+<div class="quarto-post image-right" data-index="4" data-categories="code,summary" data-listing-date-sort="1701129600000" data-listing-file-modified-sort="1716818183512" data-listing-date-modified-sort="NaN" data-listing-reading-time-sort="5" data-listing-word-count-sort="803">
 <div class="thumbnail">
 <p><a href="../blog/posts/showing-regression-results/index.html" class="no-external"></a></p><a href="../blog/posts/showing-regression-results/index.html" class="no-external">
 <p><img src="../blog/posts/showing-regression-results/table.png" class="thumbnail-image"></p>
